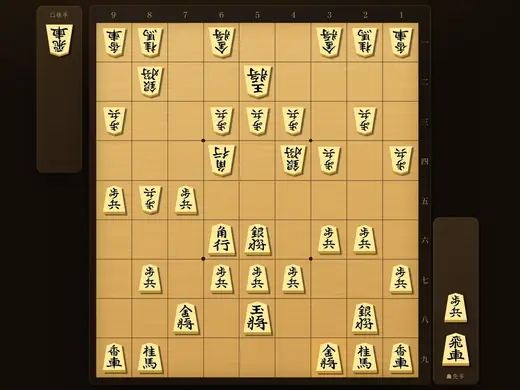
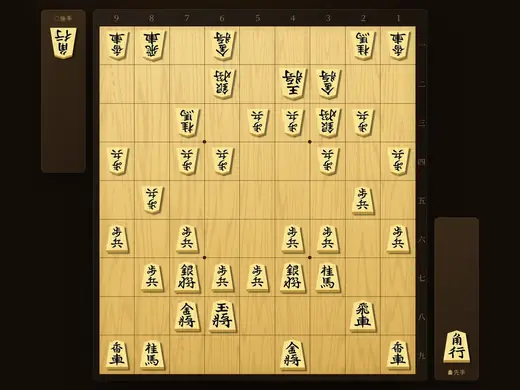
将棋のスクリーンショット（トップ・大百科の一覧）を本榧の盤で撮り直し
Claude-Session: https://claude.ai/code/session_019p8B6VBYytLojtcACx22zC

diff --git a/index.html b/index.html
@@ -624,8 +624,8 @@ html[lang=ar] :is(.btn, .play, .tag, .stat span, footer a, footer span, .logo sp
     <div class="gx reveal" id="gx">
       <article class="gx-panel" id="gx-panel" aria-labelledby="gx-title">
         <a class="gx-media" id="gx-media" href="./shogi/" tabindex="-1">
-          <img class="bg" id="gx-bg" src="./images/shogi.webp?v=2" alt="" aria-hidden="true" decoding="async">
-          <img class="shot" id="gx-shot" src="./images/shogi.webp?v=2" alt="将棋 SHOGI" decoding="async">
+          <img class="bg" id="gx-bg" src="./images/shogi.webp?v=3" alt="" aria-hidden="true" decoding="async">
+          <img class="shot" id="gx-shot" src="./images/shogi.webp?v=3" alt="将棋 SHOGI" decoding="async">
           <span class="gx-count" id="gx-count">01 / 11</span>
         </a>
         <div class="gx-info">
@@ -833,7 +833,7 @@ Object.assign(I18N, {"ru": {"gx.modes": "Режимы", "gx.stages": "Этапы
      facts   (optional) { ai, lessons, puzzles, players } shown as key figures
    ===================================================================== */
 const GAMES = [
-  { id:'shogi',      href:'./shogi/',         thumb:'images/shogi.webp?v=2',       icon:'images/icons/shogi.svg?v=2',       cat:'chess',      kind:'BOARD GAME', key:'sh',   isNew:true,  tags:['classic','ai','online','rated','daily','lessons','puzzles','openings','mobile'], facts:{ ai:19, lessons:15, puzzles:613, players:'1–2' } },
+  { id:'shogi',      href:'./shogi/',         thumb:'images/shogi.webp?v=3',       icon:'images/icons/shogi.svg?v=2',       cat:'chess',      kind:'BOARD GAME', key:'sh',   isNew:true,  tags:['classic','ai','online','rated','daily','lessons','puzzles','openings','mobile'], facts:{ ai:19, lessons:15, puzzles:613, players:'1–2' } },
   { id:'chess',      href:'./chess/',          thumb:'images/chess.webp?v=4',     icon:'images/icons/chess.svg',       cat:'chess',      kind:'BOARD GAME', key:'cs',   isNew:true,  tags:['classic','ai','online','rated','daily','lessons','puzzles','openings','mobile'], facts:{ ai:20, lessons:20, puzzles:445, players:'1–2' } },
   { id:'xiangqi',    href:'./xiangqi/',       thumb:'images/xiangqi.webp?v=2', icon:'images/icons/xiangqi.svg',     cat:'chess',     kind:'BOARD GAME', key:'xq',   isNew:true,  tags:['classic','ai','online','rated','daily','lessons','puzzles','openings','mobile'], facts:{ ai:20, lessons:16, puzzles:543, players:'1–2' } },
   { id:'janggi',     href:'./janggi/',        thumb:'images/janggi.webp', icon:'images/icons/janggi.svg',     cat:'chess',     kind:'BOARD GAME', key:'jg',   isNew:true, beta:1,  tags:['classic','ai','online','rated','daily','lessons','puzzles','mobile'], facts:{ ai:20, lessons:15, puzzles:289, players:'1–2' } },

diff --git a/atlas/gamelist.js b/atlas/gamelist.js
@@ -5,7 +5,7 @@
   'use strict';
   const SHOTS = new Set(['shogi', 'chess', 'checkers', 'ugolki', 'fanorona', 'alquerque', 'xiangqi', 'janggi', 'tafl', 'reversi', 'go', 'gomoku', 'dots', 'connect4', 'morris', 'hex',
     'mancala', 'backgammon', 'sudoku', 'speedsudoku', 'samegame', 'jailbreak', 'poker', 'baccarat', 'blackjack', 'solitaire', 'ur', 'agon', 'konane', 'senet', 'ludo', 'carrom', 'crokinole', 'hockey']);
-  const SHOT_V = 16;                                   // bump after regenerating the thumbnails
+  const SHOT_V = 17;                                   // bump after regenerating the thumbnails
   const FX = ['ai', 'online', 'lessons', 'puzzles'];  // the feature icons shown on a card (labels come from the tag.* strings)
 
   const IC = {   // small line icons for the footer buttons

diff --git a/atlas/index.html b/atlas/index.html
@@ -1839,7 +1839,7 @@ window.AtlasRgdTimer = function (btn, ms, alive) {
 <script src="gacha3d.js?v=7"></script>
 <script src="../shared/resign.js?v=3"></script><script src="../shared/drawoffer.js?v=1"></script>
 <script src="../shared/tick.js?v=2"></script>
-<script src="gamelist.js?v=30"></script>
+<script src="gamelist.js?v=31"></script>
 <link rel="stylesheet" href="worldmap.css?v=18">
 <script src="worldmap.js?v=31"></script>
 <script src="updnews.js?v=7"></script>
